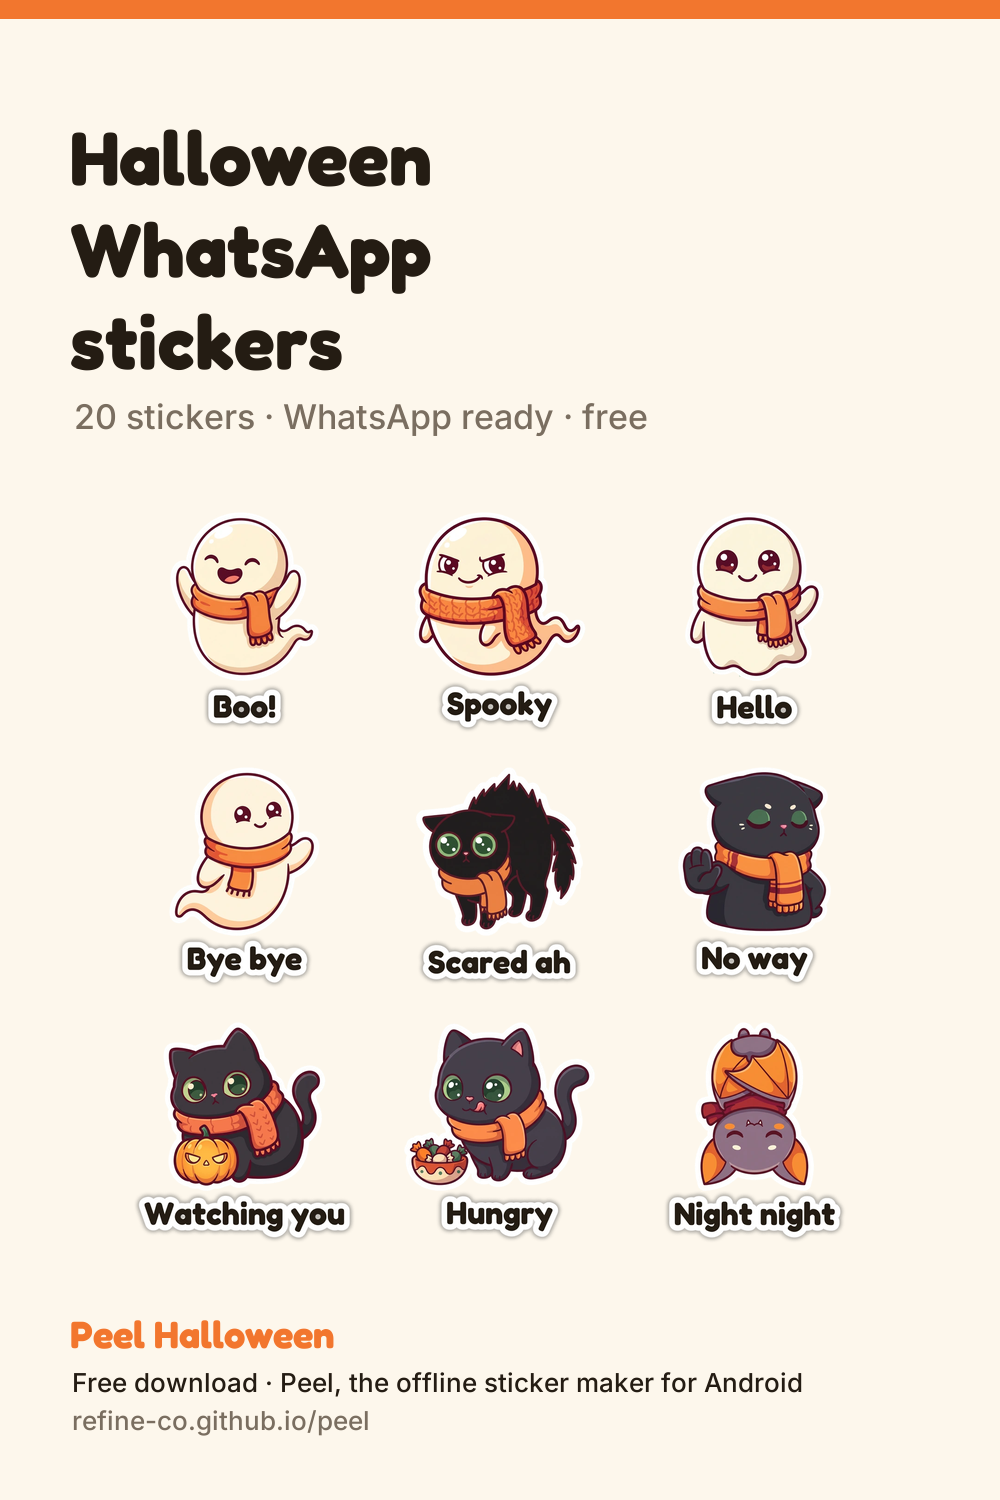
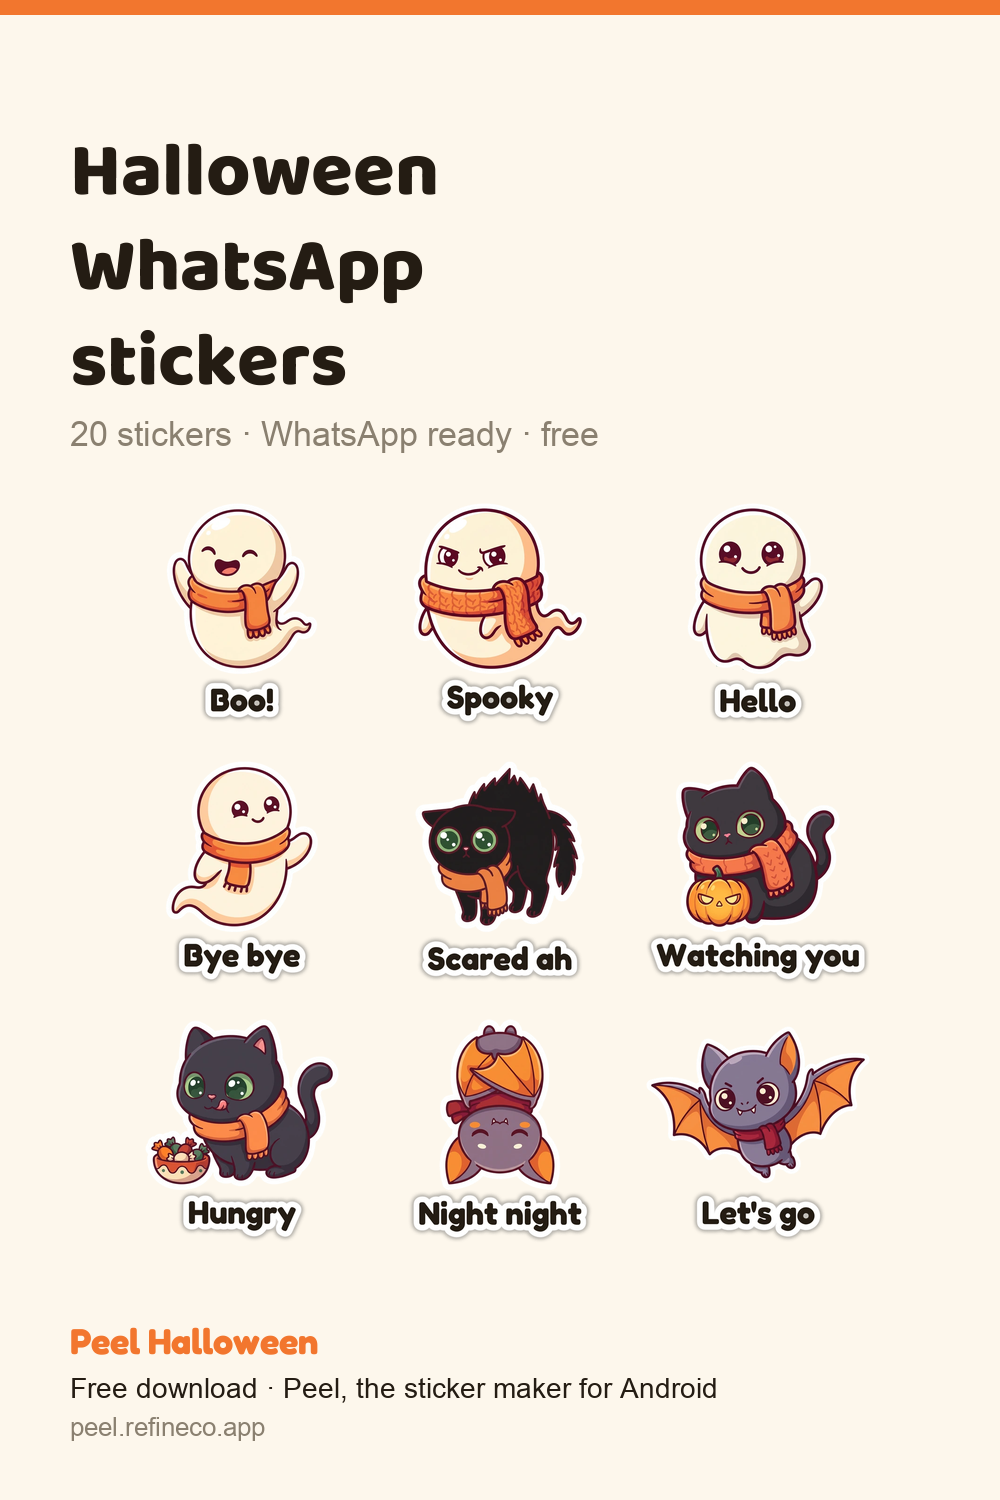
Pins: rebuild the kit on claims that are actually true
The pin copy promised pinners that Peel works entirely offline, needs no
account and has no internet permission. All three are false since 2.4.4 -
Peel signs in with Google and collects email, and its own Play listing
carries a Data safety card saying so. Two of those claims were also baked
into the pin images themselves, which pointed at the old
refine-co.github.io/peel host, so rewriting the markdown alone would have
published the claim anyway.

Adds make-pin.py, which builds a 1000x1500 pin by reading the art straight
out of the shipped .peel, so a pin cannot drift from what a pack contains.
The heading shrinks to fit three lines rather than pushing the subtitle into
the first row of stickers.

Five pins now, all free packs, because every pin image carries "Free
download" and seven of the eighteen packs are paid: Peel Halloween and Say
it rebuilt, Halloween Night, Midnight Replies and Low Light new. Say it
deliberately omits sticker 09, whose Congrats! is broken across two lines
mid-word.

Reactions is held out of the kit entirely. All ten of its pieces are
photographs of identifiable people and nothing in the project records their
provenance; the 29 Oct pack audit has the detail.

diff --git a/pins/make-pin.py b/pins/make-pin.py
@@ -1,0 +1,140 @@
+#!/usr/bin/env python3
+"""Build a 1000x1500 Pinterest pin for a Peel pack.
+
+Reads the shipped art straight out of site/packs/<id>.peel (or the copy under a
+hashed directory) so a pin can never drift from what the pack actually contains.
+
+    python3 site/pins/make-pin.py midnight-replies "Cat reply stickers" "for WhatsApp"
+
+Writes site/packs/img/<pack>/pin.png.
+"""
+import glob
+import os
+import sys
+import zipfile
+
+from PIL import Image, ImageDraw, ImageFont
+
+ROOT = os.path.dirname(os.path.dirname(os.path.dirname(os.path.abspath(__file__))))
+PACKS = os.path.join(ROOT, "site", "packs")
+IMG = os.path.join(PACKS, "img")
+
+W, H = 1000, 1500
+CREAM = (253, 247, 236)
+INK = (36, 28, 19)
+TANGERINE = (242, 118, 46)
+MUTED = (138, 128, 112)
+
+BAR = 14
+MARGIN = 70
+HEAD_TOP = 112
+HEAD_SIZE = 76
+HEAD_LEAD = 95
+SUB_SIZE = 34
+GRID_TOP = 490
+CELL = 250
+GAP = 8
+FOOT_NAME = 1318
+FOOT_LINE = 1372
+FOOT_URL = 1412
+
+FONTS = os.path.join(ROOT, "play-listing", "promo-2026-10", "public", "fonts")
+BOLD = os.path.join(FONTS, "baloo_2_extrabold.ttf")
+ROUND = os.path.join(FONTS, "fredoka_bold.ttf")
+BODY = "/System/Library/Fonts/Supplemental/Arial.ttf"
+
+
+def font(path, size):
+    return ImageFont.truetype(path, size)
+
+
+def pack_archive(pack):
+    hits = glob.glob(os.path.join(PACKS, f"{pack}.peel"))
+    hits += glob.glob(os.path.join(PACKS, "*", f"{pack}.peel"))
+    if not hits:
+        raise SystemExit(f"no .peel found for {pack}")
+    return hits[0]
+
+
+def stickers(pack, picks):
+    """Return the chosen stickers as RGBA, read from the shipped archive."""
+    z = zipfile.ZipFile(pack_archive(pack))
+    names = sorted(n for n in z.namelist() if n.startswith("stickers/"))
+    out = []
+    for i in picks:
+        with z.open(names[i - 1]) as fh:
+            im = Image.open(fh)
+            im.seek(0)
+            out.append(im.convert("RGBA"))
+    return out
+
+
+def wrap(draw, text, fnt, width):
+    words, lines, line = text.split(), [], ""
+    for w in words:
+        trial = (line + " " + w).strip()
+        if draw.textlength(trial, font=fnt) <= width:
+            line = trial
+        else:
+            if line:
+                lines.append(line)
+            line = w
+    if line:
+        lines.append(line)
+    return lines
+
+
+def build(pack, title, subtitle, pack_name, picks, out_path=None):
+    im = Image.new("RGB", (W, H), CREAM)
+    d = ImageDraw.Draw(im)
+    d.rectangle([0, 0, W, BAR], fill=TANGERINE)
+
+    # Shrink the heading until it fits three lines, so a long title can never
+    # push the subtitle down into the first row of stickers.
+    size = HEAD_SIZE
+    while size > 48:
+        f_head = font(BOLD, size)
+        lines = wrap(d, title, f_head, W - 2 * MARGIN - 380)
+        if len(lines) <= 3:
+            break
+        size -= 4
+    lead = int(size * 1.25)
+
+    y = HEAD_TOP
+    for line in lines:
+        d.text((MARGIN, y), line, font=f_head, fill=INK)
+        y += lead
+
+    d.text((MARGIN, y + 18), subtitle, font=font(BODY, SUB_SIZE), fill=MUTED)
+    grid_top = max(GRID_TOP, y + 18 + SUB_SIZE + 40)
+    if grid_top + 3 * CELL + 2 * GAP > FOOT_NAME - 30:
+        grid_top = FOOT_NAME - 30 - (3 * CELL + 2 * GAP)
+
+    art = stickers(pack, picks)
+    grid_w = 3 * CELL + 2 * GAP
+    x0 = (W - grid_w) // 2
+    for i, s in enumerate(art[:9]):
+        r, c = divmod(i, 3)
+        s = s.copy()
+        s.thumbnail((CELL - 10, CELL - 10), Image.LANCZOS)
+        x = x0 + c * (CELL + GAP) + (CELL - s.width) // 2
+        yy = grid_top + r * (CELL + GAP) + (CELL - s.height) // 2
+        im.paste(s, (x, yy), s)
+
+    d.text((MARGIN, FOOT_NAME), pack_name, font=font(ROUND, 36), fill=TANGERINE)
+    d.text((MARGIN, FOOT_LINE), "Free download · Peel, the sticker maker for Android",
+           font=font(BODY, 28), fill=INK)
+    d.text((MARGIN, FOOT_URL), "peel.refineco.app", font=font(BODY, 26), fill=MUTED)
+
+    out_path = out_path or os.path.join(IMG, pack, "pin.png")
+    os.makedirs(os.path.dirname(out_path), exist_ok=True)
+    im.save(out_path)
+    return out_path
+
+
+if __name__ == "__main__":
+    if len(sys.argv) < 5:
+        raise SystemExit("usage: make-pin.py <pack> <title> <subtitle> <pack name> [piece,piece,...]")
+    pack, title, subtitle, name = sys.argv[1:5]
+    picks = [int(x) for x in sys.argv[5].split(",")] if len(sys.argv) > 5 else list(range(1, 10))
+    print(build(pack, title, subtitle, name, picks))

diff --git a/pins/pin-copy.md b/pins/pin-copy.md
@@ -1,9 +1,33 @@
 # Pinterest pin kit — Peel sticker packs
 
-Ready to paste. **Nothing here has been posted.** Promotion is frozen until Peel reaches
-production, and Peel needs its own Pinterest account first — the one currently signed in belongs to
-Oyen Kampung, which was stopped on 30 September, and Peel pins must not go out under it.
-Claude never creates accounts, so that account is Yow's to make.
+Ready to paste. **Nothing here has been posted.** Pins go out only on Yow's explicit go.
+
+Two things that were true when this file was written are not true now, and both were corrected on
+29 October 2026.
+
+- **Peel is in production**, live on Google Play since 12 October. The old line about promotion
+  being frozen until it gets there is gone.
+- **The account question is settled.** Pins go out under the **RefineCo** Pinterest account, not
+  the Oyen Kampung one — Yow chose that on 29 Oct, and it is also the account that already owns the
+  `refineco.app` domain claim. One task comes with it: `peel.refineco.app` still has to be claimed,
+  and it can only be claimed by **HTML tag or HTML file, never a TXT record**, because the name is
+  a CNAME to `refine-co.github.io` and DNS will not let a CNAME share a name with other records.
+  Until that claim lands, pins to the packs page earn the account nothing.
+
+## The three claims that may appear in a pin, and the ones that may not
+
+This file used to promise pinners that Peel "works entirely offline", that "no account is needed"
+and that there is "No internet permission at all". **All three are false.** Peel signs in with
+Google and has collected email since 2.4.4, and its Play listing carries a Data safety card saying
+so. A pin making any of those claims would contradict Peel's own store page.
+
+Safe to write, because they are true and checked:
+
+- **No ads.**
+- **No watermark.**
+- **Making stickers is free.**
+
+Never write: offline, no account, no internet permission, nothing is uploaded.
 
 ## Where the keywords come from
 
@@ -23,64 +47,99 @@ to publish, not as proof of an audience.
 
 | Board | What goes in it |
 |---|---|
-| Reaction stickers | Say it, and Reactions (the animated pack, live since 4 Oct) |
-| Halloween stickers | the Halloween pack, and the gothic pack when it ships |
-| WhatsApp sticker packs | every pack, the catch-all board |
-| Make your own stickers | screens of Peel itself, the three demo films |
+| Reaction stickers | Say it, Midnight Replies |
+| Halloween stickers | Peel Halloween, Halloween Night, Low Light |
+| WhatsApp sticker packs | every free pack, the catch-all board |
+| Make your own stickers | screens of Peel itself, the demo films |
+
+Reactions is **not** on any board. See the hold below.
 
 ## Pins
 
-Each pin uses the 1000x1500 image already built at `packs/img/<pack>/pin.png`, and links to its
-**own pack** on the packs page:
+Each pin is 1000x1500 at `packs/img/<pack>/pin.png`, built by `site/pins/make-pin.py`, which reads
+the art straight out of the shipped `.peel` so a pin cannot drift from what the pack contains.
+Each links to **its own pack** on the packs page.
 
-| Pin | Link |
-|---|---|
-| Peel Halloween | `https://peel.refineco.app/packs.html#halloween` |
-| Say it | `https://peel.refineco.app/packs.html#say-it` |
-| Reactions | `https://peel.refineco.app/packs.html#reactions` |
-| Halloween Night | `https://peel.refineco.app/packs.html#halloween-night` |
+| Pin | Image | Link |
+|---|---|---|
+| Peel Halloween | `packs/img/halloween/pin.png` | `https://peel.refineco.app/packs.html#halloween` |
+| Halloween Night | `packs/img/halloween-night/pin.png` | `https://peel.refineco.app/packs.html#halloween-night` |
+| Midnight Replies | `packs/img/midnight-replies/pin.png` | `https://peel.refineco.app/packs.html#midnight-replies` |
+| Low Light | `packs/img/low-light/pin.png` | `https://peel.refineco.app/packs.html#low-light` |
+| Say it | `packs/img/say-it/pin.png` | `https://peel.refineco.app/packs.html#say-it` |
 
-Two things changed here on 16 Oct 2026. The host was still `refine-co.github.io/peel`, which only
-reaches the site through a redirect. And the links carried **no fragment at all**, which did not
-matter while every pack was laid out on one page — it does now that the page opens on one pack and
-the rest wait in the rail. A Halloween pin that lands on the Halloween sheet keeps the promise the
-picture made; Pinterest demotes a pin whose landing page does not.
+The fragment matters. The packs page opens on one pack with the rest waiting in the rail, so a
+Halloween pin that lands on the Halloween sheet keeps the promise its picture made. Pinterest
+demotes a pin whose landing page does not.
+
+**Only free packs are pinned.** Every pin image carries the line "Free download", so a paid pack
+cannot use this template without changing it. Dead Honest, Sir Crow, Divine Blessings, Lakshmi,
+Little Diya, Mayil and Kolam Lights all need a different footer before they can be pinned at all.
 
 ### Peel Halloween
 
 - **Title:** Free Halloween stickers for WhatsApp — 20 cute spooky reactions
 - **Description:** Twenty hand-drawn Halloween stickers for WhatsApp: a ghost, a black cat, a bat, a
   jack-o'-lantern and a small one-eyed monster saying Boo, Trick or treat, Spooky and Happy
-  Halloween. Free to download, no account, nothing uploaded. Made for Peel, the offline sticker
-  maker for Android.
+  Halloween. Free to download, no ads, no watermark. Made with Peel, the sticker maker for Android.
 - **Alt text:** A grid of cute Halloween stickers — a ghost in an orange scarf, a startled black
   cat, a bat and a smiling pumpkin, each with its word printed underneath.
+
+### Halloween Night
+
+- **Title:** Monster reply stickers for WhatsApp — 20 free, mummies to cauldrons
+- **Description:** Twenty Halloween stickers for the replies you actually send: So tired, Wait ah,
+  Good morning, No energy, Let's eat, Cheers. Mummies, skeletons, a wolf and a bubbling cauldron,
+  drawn with a white die-cut edge and ready for WhatsApp. Free, no ads, no watermark.
+- **Alt text:** A grid of Halloween stickers — a tired mummy, a sitting skeleton, a howling wolf and
+  a smiling cauldron, each with its reply printed underneath.
+
+### Midnight Replies
+
+- **Title:** Cat reply stickers for WhatsApp — Seen, Typing, On my way
+- **Description:** Eighteen black-cat stickers for the replies a group chat runs on: OK, Thank you,
+  Seen, Typing, Still waiting, On my way, Call me, Congratulations. Free to download and ready for
+  WhatsApp. Made with Peel, the sticker maker for Android. No ads, no watermark.
+- **Alt text:** A grid of black cat stickers in purple witch hats, each with a chat reply printed
+  underneath — OK, Thank you, Seen, Typing, On my way.
+
+### Low Light
+
+- **Title:** Pumpkin stickers for WhatsApp — 12 free battery moods
+- **Description:** Twelve jack-o'-lantern stickers that run from Fully charged to Running on empty:
+  Flickering, Second wind, Warming up, Still burning, Low battery, Burning bright. One idea, twelve
+  moods, free for WhatsApp. No ads, no watermark.
+- **Alt text:** A grid of pumpkin stickers glowing at different brightnesses, each with a battery
+  mood printed underneath.
 
 ### Say it
 
 - **Title:** 30 free reaction stickers for WhatsApp — LOL, OMG, On my way
 - **Description:** Thirty reaction stickers for the things people actually send: LOL, OMG, On my
   way, Thank you, Good night, BRB. Bold lettering with a white die-cut edge, free to download and
-  ready for WhatsApp. Built into Peel, the sticker maker that works entirely offline.
+  ready for WhatsApp. Built into Peel, the sticker maker for Android.
 - **Alt text:** Six bold lettered reaction stickers reading LOL, OMG, On my way, Thank you, Love it
   and YES, each on a bright burst with a white outline.
+- **Note:** the pin image was rebuilt on 29 Oct. The old one said "the offline sticker maker" and
+  pointed at `refine-co.github.io/peel`; both are gone. Sticker 09 is deliberately not among the
+  nine shown — the word *Congrats!* is broken across two lines mid-word in that piece, and that
+  defect is still in the pack itself.
 
-### Reactions
+### Reactions — **ON HOLD, do not pin**
 
-- **Title:** 10 free animated reaction stickers for WhatsApp — real faces, moving
-- **Description:** Ten animated reaction stickers for WhatsApp: the side-eye, the slow clap, the
-  nod, the face you pull when the group chat goes quiet. They move in the chat, they are free to
-  download, and no account is needed. Made with Peel, the sticker maker that works entirely
-  offline on your Android phone.
-- **Alt text:** A sheet of ten animated reaction stickers, each a person mid-expression with a
-  white die-cut edge and the reaction written underneath.
+The pin that used to live here promised "real faces, moving", and that is exactly the problem. All
+ten pieces are photographs of five identifiable people, and nothing in the project records where
+those photographs came from or under what licence — see [[2026-10-29-peel-pack-art-audit]]. Two of
+its animation frames are also visibly broken. Nothing about this pack is published anywhere until
+Yow can answer the provenance question.
 
 ### Peel itself (make one from a demo film, once there is a board for it)
 
-- **Title:** Turn any photo into a WhatsApp sticker — offline, in under a minute
-- **Description:** Peel cuts your photo out on the phone and builds a WhatsApp sticker pack from it.
-  No internet permission at all, so nothing can be uploaded anywhere — you can check that yourself
-  in the app's permission list. Free, and no ads.
+- **Title:** Turn any photo into a WhatsApp sticker — free, in under a minute
+- **Description:** Peel cuts the subject out of your photo on the phone and builds a WhatsApp
+  sticker pack from it. Animated stickers from a short video, a whole pack of text stickers in one
+  pass, and a transparent cut-out you can save for TikTok or Canva. No ads. No watermark. Making
+  stickers is free.
 
 ## Rules for writing more of these
 
@@ -88,13 +147,16 @@ picture made; Pinterest demotes a pin whose landing page does not.
 2. Say **WhatsApp** and **Android** somewhere, because that is who can use it.
 3. Never write iMessage or iPhone into a pin. The traffic cannot convert.
 4. One pin per pack per board, not the same pin everywhere.
-5. Say free, because it is, and that is what makes the click worth it.
+5. Say free, because making stickers is. Never say offline, no account, or no internet permission.
 6. **Never ship a pack of TikTok meme characters or viral faces**, however well the keyword reads.
    That is what *funny tiktok stickers* searchers are looking for, and it is other people's
    copyright — the same takedown surface that ruled out open community uploads. Serve the keyword
-   with Peel's own art or not at all.
+   with Peel's own art or not at all. The Reactions hold above is this rule arriving late.
 7. **For TikTok and CapCut, say gallery, never pack.** Neither has a sticker-pack surface. What
    works is: save a sticker to your phone's gallery, then place it in their editor as an overlay.
    Checked by hand on 4 Oct 2026 — a still PNG and an animated GIF both place on a TikTok
-   timeline, and the GIF keeps moving. Do not write a TikTok line at all until the Peel release
-   carrying **Save to Photos** is live; before that, the app cannot do what the pin promises.
+   timeline, and the GIF keeps moving. **Save to Photos shipped in 2.4.8 and is live**, so a TikTok
+   line is now allowed; it was not when this rule was written.
+8. **Look at the pin before it goes out.** Not the description, the picture. A title that says
+   skeletons over a grid of mummies is the same failure as a caption that says crescent moon over a
+   crescent and star.
